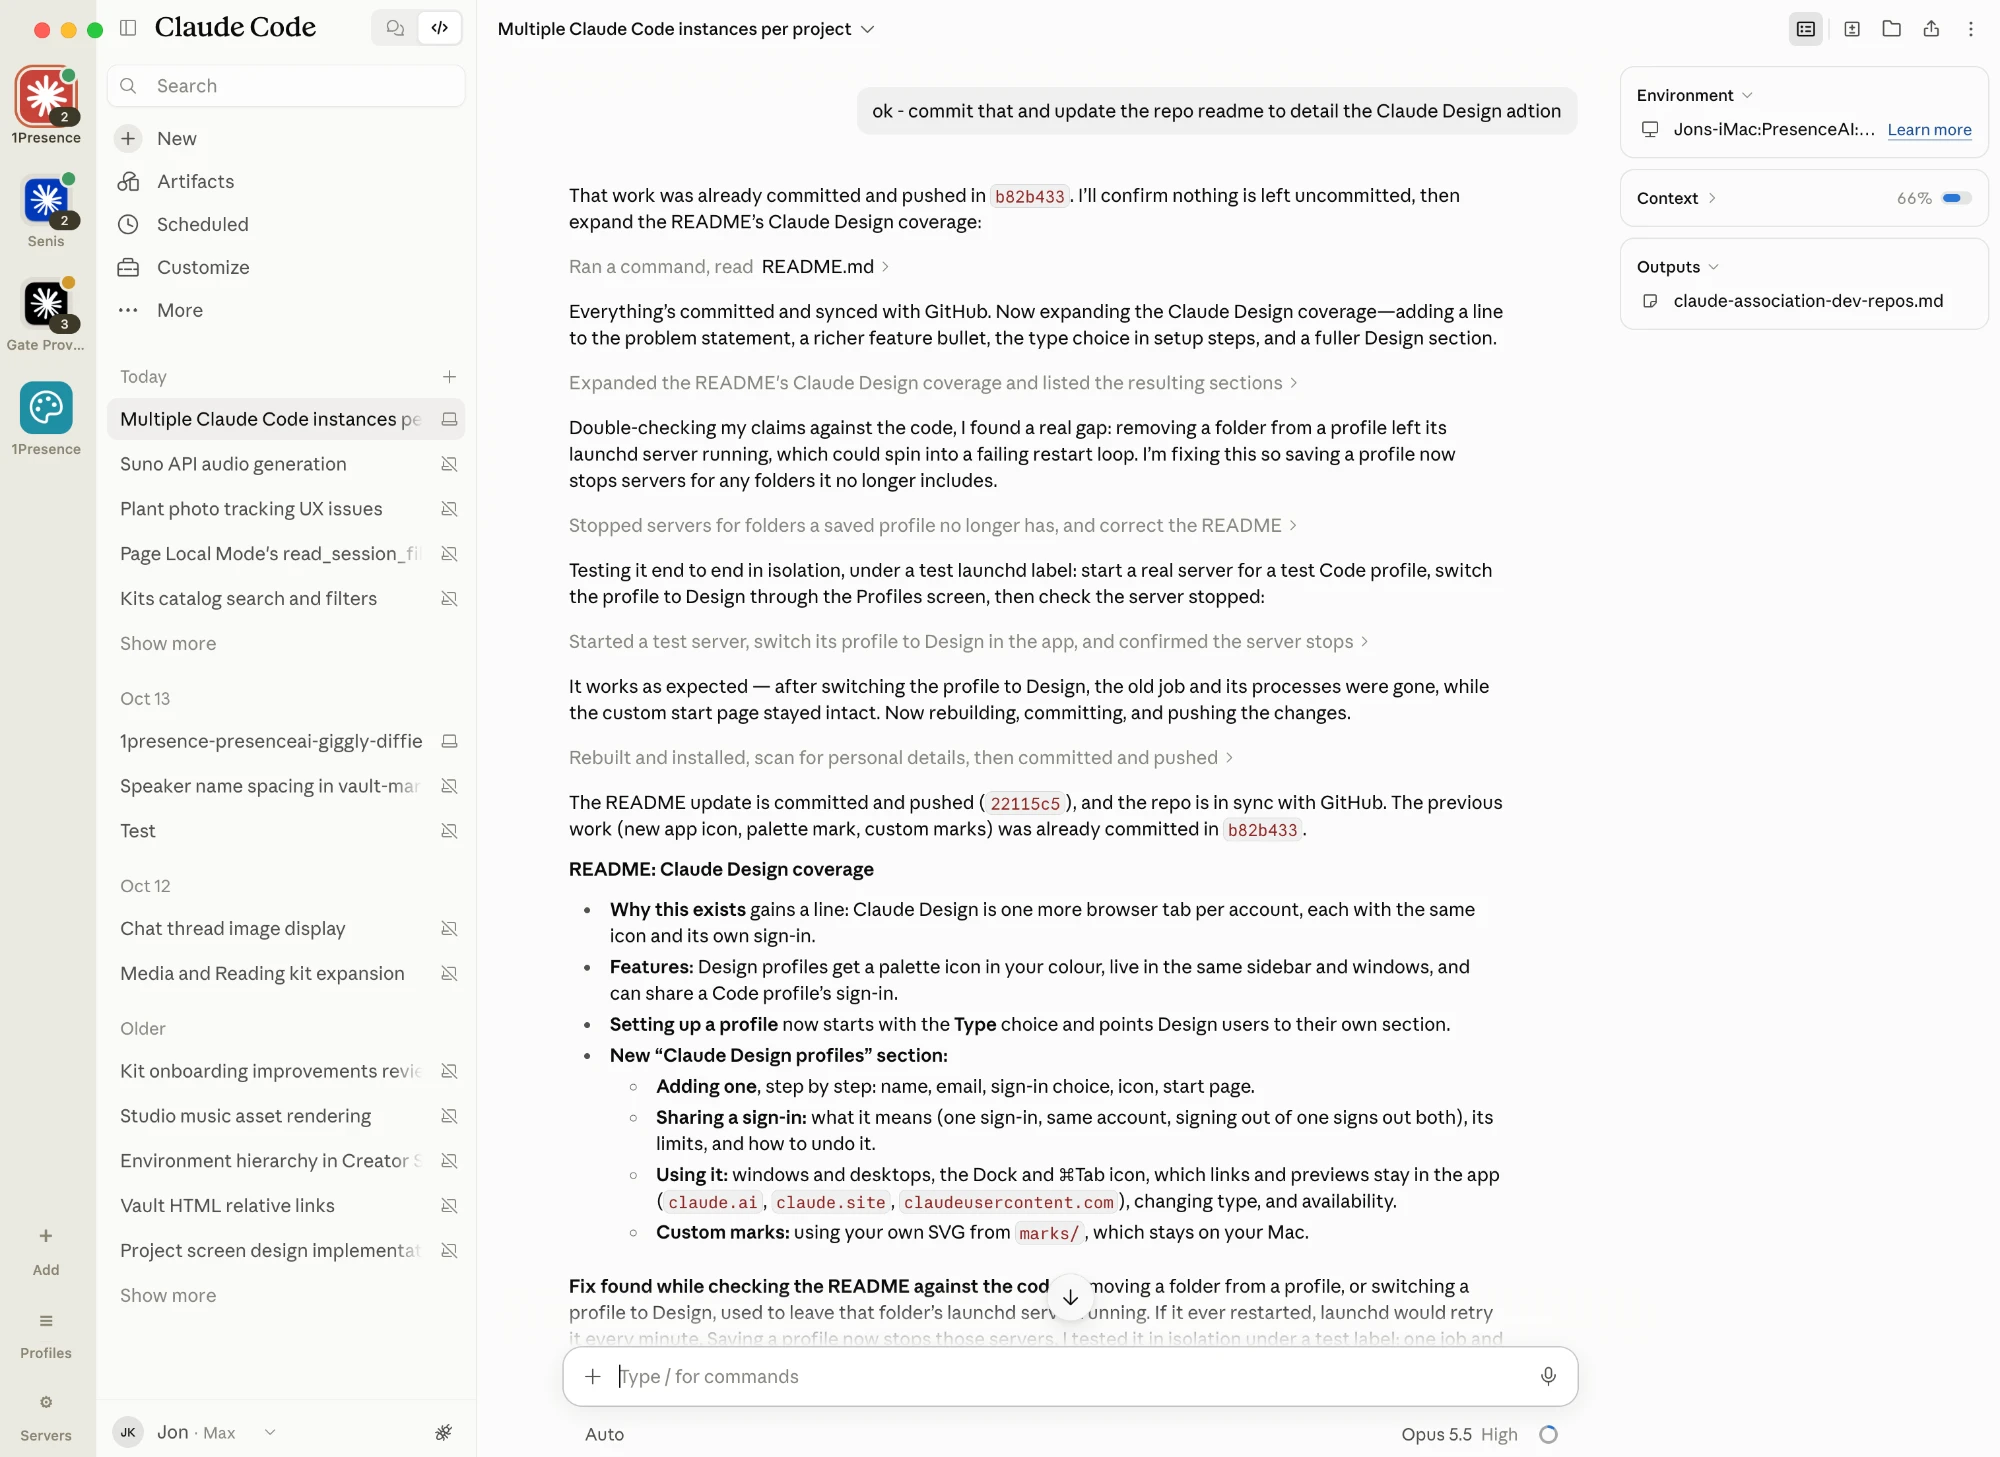
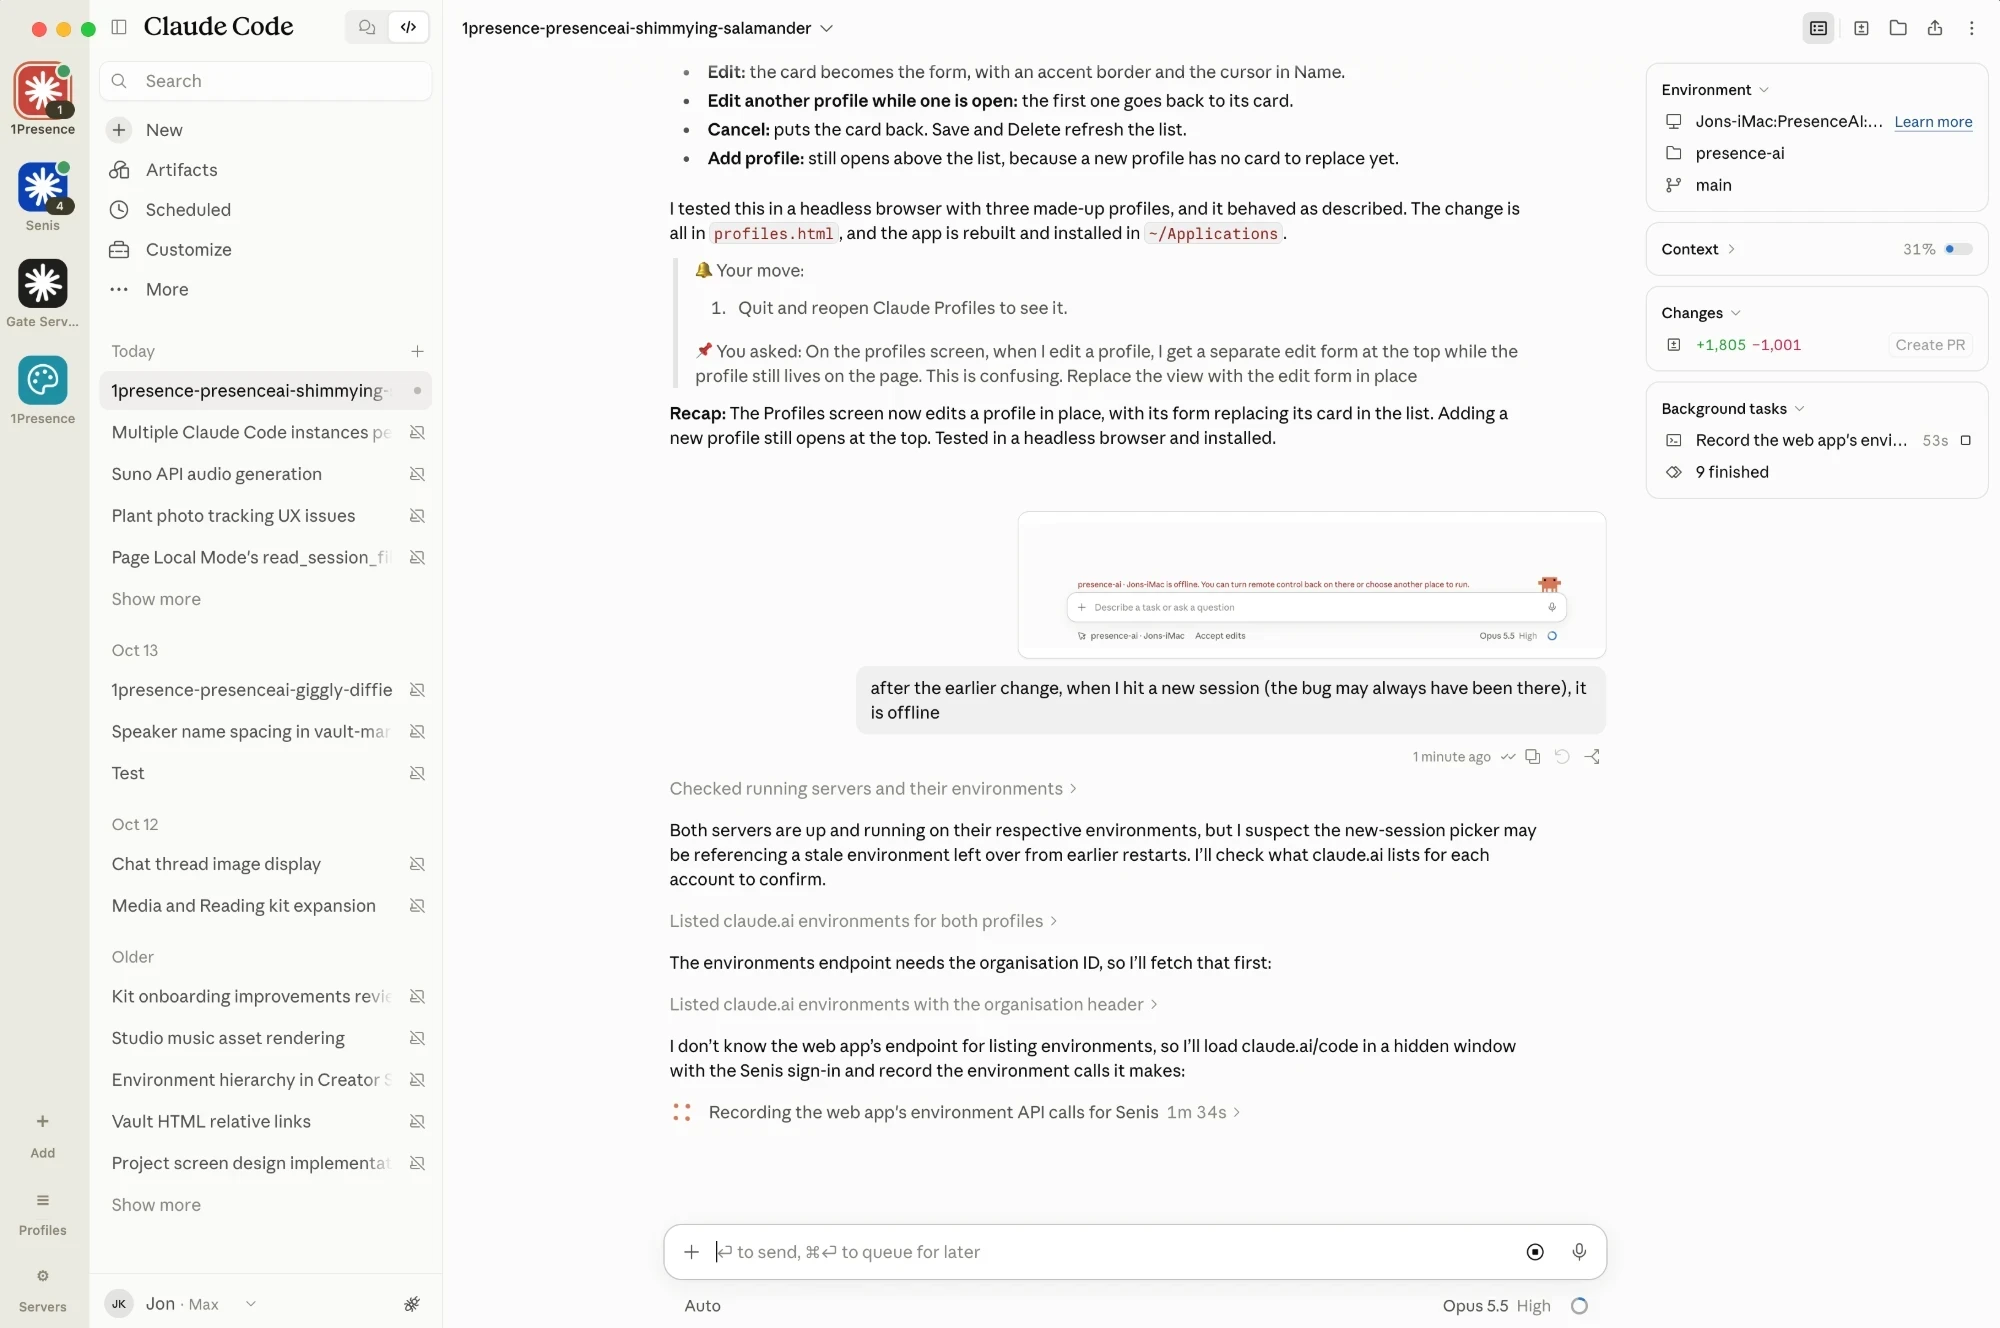
Archive dead Remote Control environments and edit profiles in place
Once a folder's server is online, the app archives this Mac's other environments for that folder, so claude.ai's new-session picker no longer shows the folder as offline. Archiving keeps their sessions listed. Editing a profile now turns its card into the form instead of opening a second copy at the top. Update the README screenshot.

diff --git a/profiles.html b/profiles.html
@@ -131,16 +131,20 @@
   let profilesList = [];
   // { id?, kind, name, account, shareSignIn, folders[], configDir, url, icon (preview), colour?, iconSource, iconDataUrl, removeIcon }
   let draft = null;
+  // Editing a profile turns its card into the form; a new profile's form sits above the list.
   function openForm(p, kind) {
     draft = p ? { id: p.id, kind: p.kind, name: p.name, account: p.account, shareSignIn: p.shareSignIn || '', folders: p.folders.map((f) => f.folder), configDir: p.configDir, url: p.url, icon: p.icon }
               : { kind: kind || 'code', name: '', account: '', shareSignIn: '', folders: [], configDir: '', url: '', icon: null };
+    $('form').replaceChildren();
+    renderList();
     renderForm();
-    $('form').scrollIntoView({ behavior: 'smooth' });
+    formCard()?.scrollIntoView({ behavior: 'smooth', block: 'start' });
     setTimeout(() => $('f-name')?.focus(), 50);
   }
-  function closeForm() { draft = null; renderForm(); }
+  function closeForm() { draft = null; $('form').replaceChildren(); renderList(); }
+  const formCard = () => document.querySelector('[data-form]');
   function renderForm(error) {
-    if (!draft) { $('form').replaceChildren(); return; }
+    if (!draft) return;
     const d = draft;
     const isCode = d.kind === 'code';
     const sync = () => {
@@ -151,7 +155,7 @@
     const setKind = async (k) => { sync(); if (d.url === (d.kind === 'design' ? 'https://claude.ai/design' : 'https://claude.ai/code')) d.url = ''; d.kind = k; if (d.colour && d.iconDataUrl) { d.iconDataUrl = await markPng(k, d.colour); d.icon = d.iconDataUrl; } renderForm(); };
     // Only profiles with their own sign-in can be shared, and never the profile itself.
     const shareable = profilesList.filter((p) => !p.shareSignIn && p.id !== d.id);
-    $('form').replaceChildren(h('div', { class: 'card' },
+    const el = h('div', { class: 'card', 'data-form': true, id: d.id ? `p-${d.id}` : null, style: 'border-color: var(--accent)' },
       h('h2', {}, d.id ? `Edit ${d.name}` : 'New profile'),
       h('label', {}, 'Type'),
       h('div', { class: 'kinds' },
@@ -216,8 +220,10 @@
         h('button', { onclick: closeForm }, 'Cancel'),
         d.id ? h('button', { class: 'danger', style: 'margin-left:auto', onclick: async () => {
           if (!confirm(`Delete the profile “${d.name}”? ${isCode ? 'Its servers are stopped. ' : ''}Its sign-in data stays on this Mac, so re-adding a profile with the same name signs straight back in.`)) return;
-          try { await window.editor.remove(d.id); closeForm(); refresh(); toast('Profile deleted.'); } catch (e) { renderForm(errText(e)); }
-        } }, 'Delete profile') : null)));
+          try { await window.editor.remove(d.id); draft = null; await refresh(); toast('Profile deleted.'); } catch (e) { renderForm(errText(e)); }
+        } }, 'Delete profile') : null));
+    if (!d.id) $('form').replaceChildren(el);
+    else (formCard() || $(`p-${d.id}`))?.replaceWith(el);
   }
 
   // ---- the list, with each profile's setup checklist ----
@@ -270,10 +276,14 @@
       home = hm;
       profilesList = profiles;
       customMarks = marks || {};
-      $('list').replaceChildren(...(profiles.length ? profiles.map((p) => card(p, p.id === highlight))
-        : [h('div', { class: 'card' }, h('h2', {}, 'No profiles yet'), h('div', { class: 'sub', style: 'margin-top:4px' }, 'Add one for each Claude account you use.'))]));
+      renderList(highlight);
+      if (draft) renderForm();
       if (highlight) document.getElementById(`p-${highlight}`)?.scrollIntoView({ behavior: 'smooth' });
     } catch (e) { toast(errText(e)); }
+  }
+  function renderList(highlight) {
+    $('list').replaceChildren(...(profilesList.length ? profilesList.map((p) => card(p, p.id === highlight))
+      : [h('div', { class: 'card' }, h('h2', {}, 'No profiles yet'), h('div', { class: 'sub', style: 'margin-top:4px' }, 'Add one for each Claude account you use.'))]));
   }
   $('add').addEventListener('click', () => openForm(null, 'code'));
   $('add-design').addEventListener('click', () => openForm(null, 'design'));

diff --git a/main.js b/main.js
@@ -526,8 +526,42 @@ ipcMain.handle('mgr', async (event, action, ...args) => {
   if (!actions[action]) throw new Error(`unknown action ${action}`);
   const result = await actions[action](...args);
   if (action !== 'status' && action !== 'packaged') setTimeout(pushStatus, 1500);
+  if (action === 'start' || action === 'restart') setTimeout(retireStaleEnvironments, 60000);
   return result;
 });
+
+// claude.ai's new-session picker shows one entry per folder and can pick an environment no server serves
+// any more, so the folder looks offline while its server is running. Each server start used to leave one
+// behind. Once a folder's server is online, archive this Mac's other environments for that folder.
+// Archiving hides only the environment: its sessions stay listed, and opening one continues it.
+async function retireStaleEnvironments() {
+  let st;
+  try { st = await mgr.status(); } catch { return; }
+  const machine = require('node:os').hostname().replace(/\.local$/, '');
+  const headers = { 'anthropic-version': '2023-06-01', 'anthropic-client-platform': 'web_claude_ai' };
+  for (const p of config.profiles.filter((x) => !x.shareSignIn)) {
+    const folders = new Set(st.servers.filter((s) => s.profileId === p.id && s.pid).map((s) => s.folder));
+    if (!folders.size) continue;
+    const ses = session.fromPartition(`persist:profile-${p.id}`);
+    try {
+      const orgs = await (await ses.fetch('https://claude.ai/api/organizations', { credentials: 'include' })).json();
+      for (const org of Array.isArray(orgs) ? orgs : []) {
+        const base = `https://claude.ai/v1/environment_providers/private/organizations/${org.uuid}/environments`;
+        const r = await ses.fetch(`${base}?limit=1000`, { credentials: 'include', headers });
+        if (!r.ok) continue;
+        const ours = ((await r.json()).environments || []).filter((e) => e.kind === 'bridge' && e.state === 'active' && e.bridge_info?.machine_name === machine);
+        for (const folder of folders) {
+          const here = ours.filter((e) => e.bridge_info.directory === folder);
+          if (!here.some((e) => e.bridge_info.online)) continue;
+          for (const e of here.filter((x) => !x.bridge_info.online)) {
+            const a = await ses.fetch(`${base}/${e.environment_id}/archive`, { method: 'POST', credentials: 'include', headers });
+            mgr.log(`${a.ok ? 'archived' : `could not archive (${a.status})`} stale environment ${e.environment_id} for ${folder} in ${p.name}`);
+          }
+        }
+      }
+    } catch (e) { mgr.log(`retiring stale environments in ${p.name}: ${e.message}`); }
+  }
+}
 
 // ---- Profiles screen -------------------------------------------------------------------------------
 
@@ -666,6 +700,8 @@ if (!app.requestSingleInstanceLock()) {
     else createWindow();
     pushStatus();
     setInterval(pushStatus, 30000);
+    setTimeout(retireStaleEnvironments, 60000);
+    setInterval(retireStaleEnvironments, 30 * 60000);
   });
   // Clicking the Dock icon with every window closed opens a fresh one.
   app.on('activate', () => { if (!windows.size) createWindow(); });

diff --git a/manager.js b/manager.js
@@ -496,7 +496,7 @@ function createManager({ configDir, appBinary, helperPath, labelPrefix }) {
     return { checked: sessions.length, ended };
   }
 
-  return { config, status, startServer, stopServer, setCleanup, serve, continueRun, continueSession, reap, endSession, stopUnmanagedServer, setKeep, claudeConfig };
+  return { log, config, status, startServer, stopServer, setCleanup, serve, continueRun, continueSession, reap, endSession, stopUnmanagedServer, setKeep, claudeConfig };
 }
 
 module.exports = { createManager };

diff --git a/README.md b/README.md
@@ -181,6 +181,8 @@ A plain stop followed by a start, which is what a Restart button does, hits the 
 3. It starts the resume as a detached process, so it outlives the app the way the servers do. It reads the new session's ID from the record the CLI keeps in `<config>/sessions/<pid>.json`.
 4. It switches the view to the new session and remembers the pair in `state/continued.json`. Opening the stranded original again goes straight to the continuation, and a continuation that has stopped (after a reboot, say) is continued again from the same transcript.
 
+**Retiring dead environments.** Every environment a server ever registered stays on claude.ai, all with the same name. The new-session picker shows one entry per folder and can pick a dead one, so the folder reads "offline" while its server is running. Once a folder's server is online, the app archives this Mac's other environments for that folder (a minute after it starts, after **Start** and **Restart**, and every half hour). Archiving removes only the environment from the picker: its sessions stay listed on claude.ai, and opening one continues it as above.
+
 A continued session is listed on the **Servers** screen with the profile's other sessions, and **End** and automatic cleanup treat it like any other. A stranded session whose transcript isn't on this Mac, for example one from another computer, is left alone.
 
 ## Configuration
